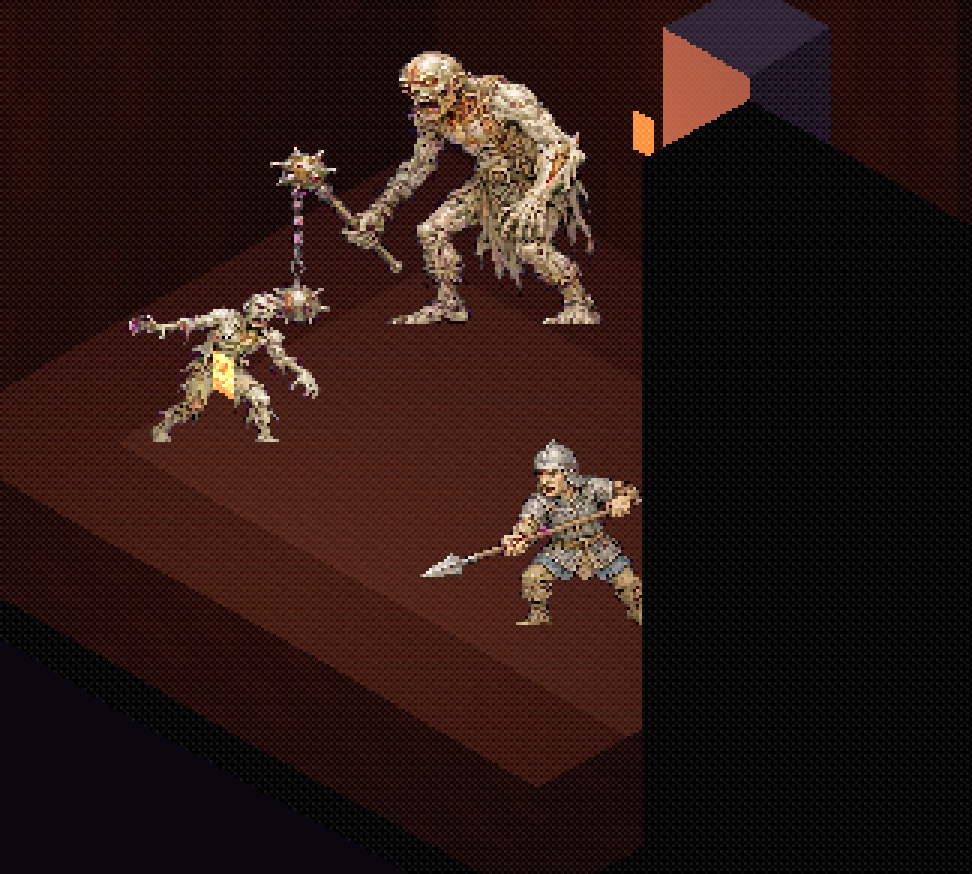
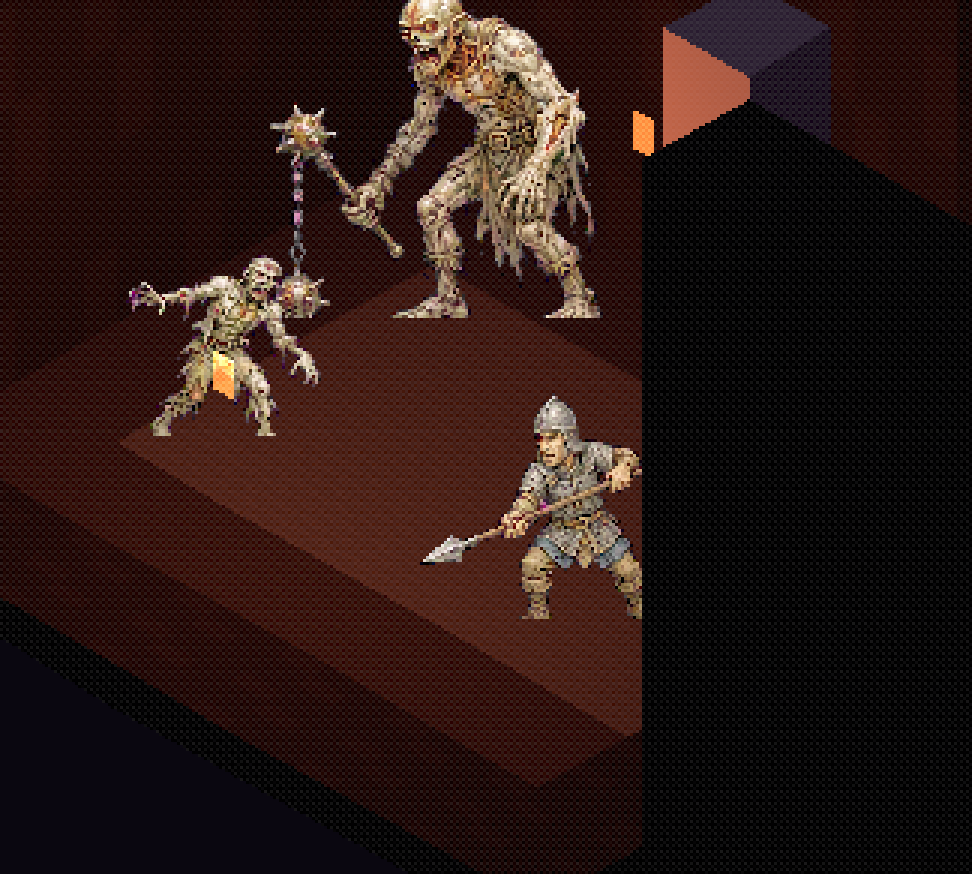
fix(dungeon): sprite standee tilt (billboards lean back by CAM_ELEV — kills the high-angle vertical squash), AO 0.68→0.45 (visible next to torchlight), interior fog ×3 (the ÷6 overcorrected); card re-shot — variants now differ visibly

Changed region(s): [[0.1235, 0.0, 0.6173, 0.5252], [0.4321, 0.4325, 0.679, 0.7414]]

diff --git a/src/ui/theater-boot.js b/src/ui/theater-boot.js
@@ -2908,10 +2908,17 @@ function markDirty(){
 function updateSpriteBillboardYaw(){
   const yaw = (S.rotationStep * 90 * Math.PI) / 180 + (CAM_YAW_OFFSET_DEG * Math.PI) / 180;
   const facing = yaw + Math.PI;
+  // Camera-pitch tilt (Adam 2026-07-10 evening): an upright quad under the elevated ortho camera
+  // foreshortens vertically by cos(elevation) — reads as a SQUASHED sprite. Tilting each standee
+  // back by the camera elevation makes the quad camera-perpendicular: full sprite height on
+  // screen, no distortion, feet still anchored at the group origin. rotation order YXZ so the
+  // pitch rides the yaw.
+  const tilt = (CAM_ELEV_DEG * Math.PI) / 180; // top leans AWAY from the camera (standee), not into the floor
+  function face(fig){ fig.rotation.order = "YXZ"; fig.rotation.y = facing; fig.rotation.x = tilt; }
   if(S.unitGroup){
     for(let i = 0; i < S.unitGroup.children.length; i++){
       const fig = S.unitGroup.children[i];
-      if(fig && fig.userData && fig.userData.sprite) fig.rotation.y = facing;
+      if(fig && fig.userData && fig.userData.sprite) face(fig);
     }
   }
   // DUNGEON-GRAPH.md U3 iteration-2, ruling 3: interior "pieces" (creature/PC sprites standing in the
@@ -2925,7 +2932,7 @@ function updateSpriteBillboardYaw(){
       if(!sub || !sub.children) continue;
       for(let j = 0; j < sub.children.length; j++){
         const fig = sub.children[j];
-        if(fig && fig.userData && fig.userData.sprite) fig.rotation.y = facing;
+        if(fig && fig.userData && fig.userData.sprite) face(fig);
       }
     }
   }
@@ -4140,7 +4147,7 @@ function interiorUnitBoxGeometry(){
 // study rig's AO variant is on (product callers never set this; see setInteriorVariant below).
 function interiorApplyAODarkening(instances){
   const wallKeys = new Set((instances.wall || []).map((w) => w.x + "," + w.z));
-  const AO_FACTOR = 0.68;
+  const AO_FACTOR = 0.45; // was 0.68 — invisible next to torch lighting at room framing (Adam, card v5)
   ["floor", "doorframe"].forEach((kind) => {
     (instances[kind] || []).forEach((inst) => {
       const seam = [[1, 0], [-1, 0], [0, 1], [0, -1]].some(([dx, dz]) => wallKeys.has((inst.x + dx) + "," + (inst.z + dz)));

diff --git a/src/ui/theater-interior.js b/src/ui/theater-interior.js
@@ -49,7 +49,7 @@ const INTERIOR_TILE_KITS = Object.freeze({
     floorColor: "#8fa6b0", wallColor: "#3d525d", trimColor: "#d8f0f8",
     floorPattern: [[0, 1], [1, 0]],
     wallPattern: [[0, 0, 1], [1, 0, 0], [0, 1, 0]],
-    fog: Object.freeze({ color: "#0d1518", density: 0.008 }),
+    fog: Object.freeze({ color: "#0d1518", density: 0.024 }),
     lightKind: "lamp", lightColor: "#bfe8ff", lightIntensity: 1.1
   }),
   gloom: Object.freeze({
@@ -57,7 +57,7 @@ const INTERIOR_TILE_KITS = Object.freeze({
     floorColor: "#453b4d", wallColor: "#2a222e", trimColor: "#6b5878",
     floorPattern: [[0, 0], [0, 1]],
     wallPattern: [[1, 0, 0], [0, 0, 0], [0, 0, 1]],
-    fog: Object.freeze({ color: "#0a0710", density: 0.012 }),
+    fog: Object.freeze({ color: "#0a0710", density: 0.035 }),
     lightKind: "torch", lightColor: "#ff9a44", lightIntensity: 1.3
   }),
   fantasy: Object.freeze({
@@ -65,7 +65,7 @@ const INTERIOR_TILE_KITS = Object.freeze({
     floorColor: "#7a6248", wallColor: "#4a3b2c", trimColor: "#c9a85c",
     floorPattern: [[0, 1], [1, 1]],
     wallPattern: [[0, 1, 0], [1, 1, 1], [0, 1, 0]],
-    fog: Object.freeze({ color: "#120d08", density: 0.008 }),
+    fog: Object.freeze({ color: "#120d08", density: 0.024 }),
     lightKind: "torch", lightColor: "#ffb347", lightIntensity: 1.3
   })
 });
